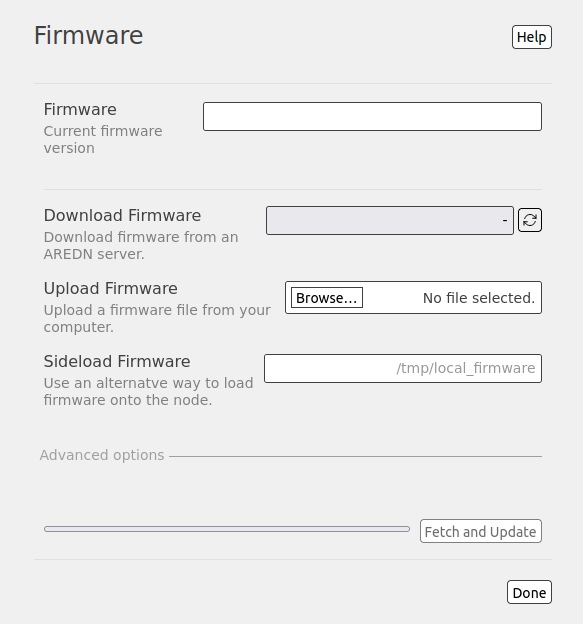
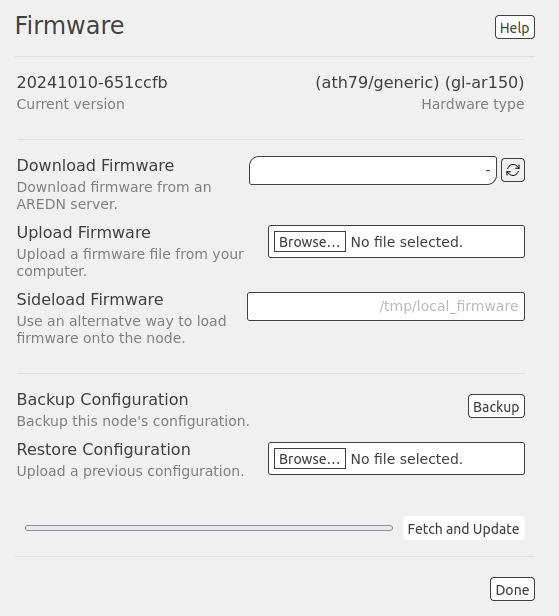
add config backup options (#418)

diff --git a/arednGettingStarted/node_admin.rst b/arednGettingStarted/node_admin.rst
@@ -117,7 +117,13 @@ Upload Firmware
 Sideload Local Firmware
   If you need to remotely upgrade the firmware on a node which has a marginal connection to the network, the standard web/http method may not reliably transfer the image to the node. In this situation you may want to use an independent means of uploading the firmware to the node before beginning the upgrade process. Choose an upload method such as ``scp`` (secure copy) with a long connection timeout, which may allow the file transfer to continue the upload in the event of a network interruption. Transfer the new firmware file to your node, place it in the ``/tmp`` folder, and name it ``local_firmware.bin``. Once the node detects the presence of ``/tmp/local_firmware.bin``, then the filename in the field at the right will become active. Click the ``Update`` button to begin the process. You may need to scroll down in the display to see the button.
 
-A progress bar at the bottom of the display will show the status of any your download or upload. Any error messages will also be displayed in a message bar at the top of this display. You should then see a display showing that the image is being installed, along with a timer and progress indicator.
+Backup Configuration
+  Once you have your node configured the way you want it, you can save those configuration settings by clicking the ``Backup`` button. This will create a compressed archive of the node's configuration settings and it will download the timestamped backup file to your local computer. This snapshot file can be used to restore your node's configuration to a known good point in time, and it also allows you to transfer a configuration to new hardware.
+
+Restore Configuration
+  Once you have generated and saved a backup configuration, you can restore that previous backup to your node. This will replace the node's configuration with the settings in the backup file. Be aware that no attempt is made to validate the backup file. Also, restoring to a different type of hardware could result in unexpected behavior.
+
+A progress bar at the bottom of the display will show the status of your download or upload. Any error messages will also be displayed in a message bar at the top of this display. You should then see a display showing that the image is being installed, along with a timer and progress indicator.
 
 Additional options will be displayed when you click **Advanced Options**.
 
